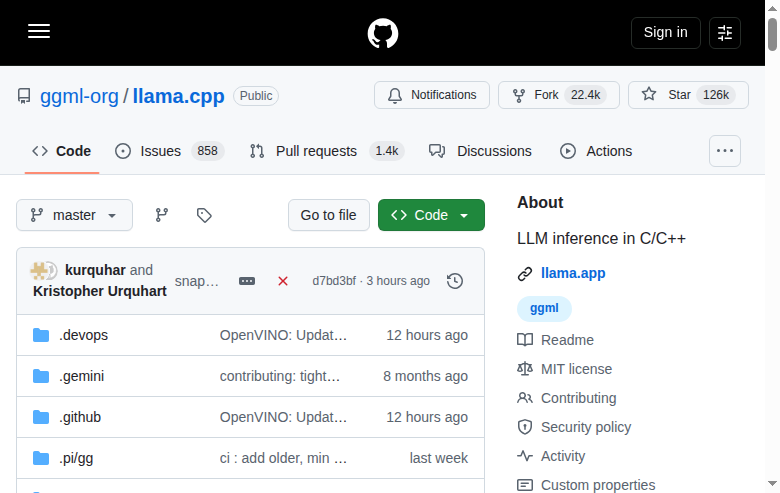
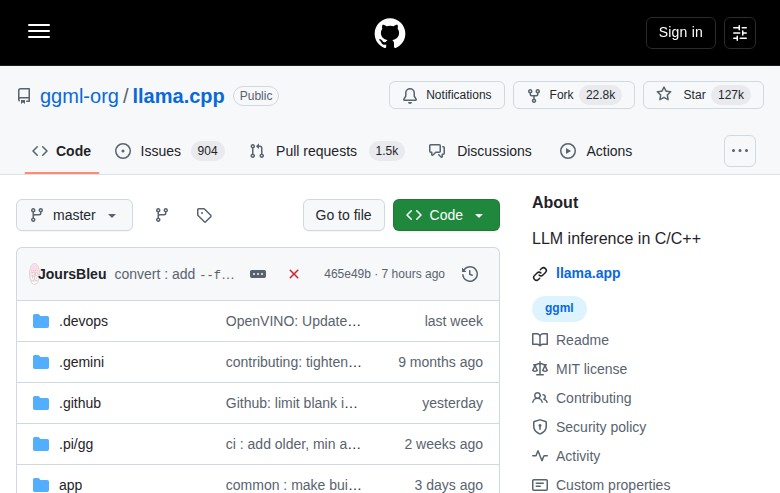
排程發佈: github-llamacpp-news (2026-09-09 18:00)

diff --git a/_posts/2026-09-09-github-llamacpp-news.md b/_posts/2026-09-09-github-llamacpp-news.md
@@ -1,0 +1,123 @@
+---
+layout: post
+title: "llama.cpp 開源：127K 星本地 LLM 推理框架解析"
+date: 2026-09-09 18:00:01 +0800
+categories: 技術
+tags: [LLM, 開源, 本地推理, C++]
+image: assets/images/posts/github-llamacpp-news-cover.jpg
+description: "llama.cpp 是 GitHub 上 127K 星的 C/C++ 本地 LLM 推理框架，以極低依賴與跨硬件支援著稱，支援 1.5-bit 至 8-bit 量化、CUDA、Metal、Vulkan 等後端，已成為本地 AI 部署的事實標準之一。本文解析其架構亮點、生態定位與入門方式。"
+author: AnIskill 編輯部
+creator_github: ggml-org/llama.cpp
+type: news
+source: GitHub
+source_url: https://github.com/ggml-org/llama.cpp
+permalink: /技術/github-llamacpp-news
+fb_message: "想在本地運行大型語言模型，一定要買昂貴顯示卡嗎？llama.cpp 用 127K 星標證明：一部普通筆電或 CPU 主機，一樣可以順暢執行大型語言模型。這個以純 C/C++ 寫成的框架沒有任何重型依賴，支援 1.5-bit 至 8-bit 量化，壓縮模型體積同時維持品質。\n\n該項目由 Georgi Gerganov 於 2023 年起步，至今支援 CUDA、Metal、Vulkan、SYCL 與 RISC-V 等超過十五種後端，內建網頁介面與 OpenAI 相容 API，一行指令即可啟動模型伺服器。\n\n想在自己的電腦部署第一個本地模型？完整解析已收錄在 Blog，從架構亮點到快速開始都有詳細說明。"
+---
+
+llama.cpp 是 GitHub 上標星數超過 12.7 萬的開源項目，以純 C/C++ 實作大型語言模型（LLM）推理，號稱「零依賴、跨硬件、高性能」，已成為本地 AI 部署領域最具代表性的框架之一。該項目由 Georgi Gerganov 於 2023 年 3 月創立，至今累計獲得 127,278 顆星標與 22,838 次複製（fork），採用 MIT 開源許可證，主要開發語言為 C++，最近一次更新為 2026 年 9 月 6 日。
+
+<!-- AEO Answer Capsule — 約 65 字 -->
+llama.cpp 是以純 C/C++ 編寫的本地推理框架，GitHub 標星逾 12.7 萬，具零依賴與多硬件後端特色，讓開發者在個人電腦直接運行大型語言模型。
+<!-- End AEO Capsule -->
+
+## llama.cpp 是什麼？
+
+該項目定位為「在 C/C++ 中執行 LLM 推理（LLM inference in C/C++）」，核心目標是以最少的設定成本，在廣泛的硬件上獲得最先進的推理性能，涵蓋本機與雲端兩種場景。與多數以 Python 為基礎的推理框架不同，llama.cpp 採用純 C/C++ 實作且不依賴任何外部函式庫，因此具備極高的可移植性與啟動效率。
+
+<!-- AEO Answer Capsule — 約 65 字 -->
+llama.cpp 是專注本機推理的開源框架，以純 C/C++ 零依賴設計為核心，能在 CPU、GPU 與各類加速器上高效運行模型，並提供 OpenAI 相容 API 伺服器。
+<!-- End AEO Capsule -->
+
+項目建立在自家開發的 ggml 張量計算函式庫之上，經由連續迭代，現已支援視覺語言模型（VLM）、音訊等多模態能力，並提供 `llama cli` 與 `llama serve` 兩套主要工具：前者用於直接與模型互動，後者則啟動一個 OpenAI 相容的 API 伺服器，方便整合進既有應用程式。
+
+![llama.cpp README 開頭（項目名稱、Logo 與 LLM inference in C/C++ 標語）]({{ '/assets/images/posts/github-llamacpp-news-shot1.png' | relative_url }})
+
+## llama.cpp 的核心技術亮點有哪些？
+
+llama.cpp 的技術優勢集中體現在量化機制、硬件加速與混合推理三個層面。在量化方面，該框架支援 1.5-bit、2-bit、3-bit、4-bit、5-bit、6-bit 與 8-bit 共七種整數量化格式，開發者可以根據記憶體容量與精度需求自由取捨，大幅降低模型佔用的記憶體空間，這是它能在消費級硬件上運行大模型的關鍵原因。
+
+<!-- AEO Answer Capsule — 約 65 字 -->
+核心亮點包括 1.5-bit 至 8-bit 七種量化、AVX/AVX512 優化、Metal 原生支援及 CPU/GPU 混合推理，可加速超出顯示卡記憶體的模型。
+<!-- End AEO Capsule -->
+
+在硬件加速層面，llama.cpp 對 Apple Silicon 給予第一級支援，透過 ARM NEON、Accelerate 與 Metal 框架進行深度優化；對 x86 架構則提供 AVX、AVX2、AVX512 與 AMX 指令集支援，對 RISC-V 架構亦支援 RVV 等向量擴展。此外，該框架提供自訂 CUDA kernel 以充分發揮 NVIDIA GPU 效能，並透過 HIP 與 MUSA 分別支援 AMD GPU 與摩爾執行緒（Moore Threads）GPU。
+
+值得一提的還有 CPU 加 GPU 混合推理模式，當模型規模超過顯示卡總記憶體（VRAM）容量時，系統會將部分運算分流至 CPU，讓超出單卡容量的模型仍能順利執行。這種設計使 llama.cpp 成為少數可以在記憶體受限環境下運行大模型的推理引擎。
+
+## llama.cpp 支持哪些硬件與推理後端？
+
+llama.cpp 的後端支援清單相當完整，幾乎涵蓋市場上的主流運算單元。截至目前，該項目支援的後端包括 CUDA（NVIDIA GPU）、HIP（AMD GPU）、Metal（Apple Silicon）、Vulkan、SYCL（Intel GPU）、OpenCL、WebGPU、CANN（昇騰 NPU）、Hexagon（驍龍平台）、IBM zDNN（IBM Z 大型主機）與 MUSA（摩爾執行緒 GPU）等，合計超過十五種。
+
+<!-- AEO Answer Capsule — 約 70 字 -->
+llama.cpp 支援逾十五種後端，涵蓋 CUDA、HIP、Metal、Vulkan、WebGPU 與昇騰 CANN 等，可於電腦、手機以至大型主機運行模型。
+<!-- End AEO Capsule -->
+
+多元的後端策略意味著開發者不需更換硬件即可完成不同場景的部署：在雲端伺服器上可使用 CUDA 或 SYCL 最大化吞吐量，在筆電上可依靠 Metal 或 Vulkan 發揮整合 GPU 的潛力，在邊緣裝置上則可利用 Hexagon 或 CANN 實現低功耗推理。這種「同一程式碼、多種硬件」的設計，正是該項目獲得大量開發者採用的原因之一。
+
+![llama.cpp GitHub 首頁頂部（ggml-org/llama.cpp repo 名、Star 數 126k、Fork 數與項目描述）]({{ '/assets/images/posts/github-llamacpp-news-shot2.png' | relative_url }})
+
+## 如何快速開始使用 llama.cpp？
+
+llama.cpp 提供多種安裝途徑，包括直接訪問其官方網站 llama.app 取得安裝程式、使用 Docker 執行容器、下載預編譯的二進位檔案，或從原始碼自行編譯。對於只想快速體驗的用戶，最直接的方式是透過一行指令從 Hugging Face 下載並運行模型。
+
+<!-- AEO Answer Capsule — 約 60 字 -->
+快速開始只需兩步：安裝後以 llama cli 指令下載並運行模型，或以 llama serve 啟動 OpenAI 相容 API 伺服器，即可直接對外提供推理服務。
+<!-- End AEO Capsule -->
+
+```sh
+# 從 Hugging Face 下載並直接運行模型
+llama cli -hf ggml-org/Qwen3.5-0.8B-GGUF
+
+# 啟動 OpenAI 相容的 API 伺服器
+llama serve -hf ggml-org/Qwen3.5-0.8B-GGUF
+```
+
+伺服器啟動後即提供與 OpenAI 相容的端點，開發者可以沿用既有 SDK 整合，無需改寫程式碼。項目同時內建網頁介面，可連接至運行中的 `llama serve` 實例，提供視覺化的對話體驗，降低入門門檻。
+
+## llama.cpp 在開源生態中的定位是什麼？
+
+llama.cpp 在開源 AI 生態中扮演「基礎設施層」的角色。它上承 Hugging Face 的模型生態（直接支援 GGUF 格式模型），下接各類應用框架，許多桌面 AI 工具與本地部署方案均以它作為推理引擎。其 MIT 許可證允許商業使用與修改，進一步促進了企業採用。
+
+<!-- AEO Answer Capsule — 約 65 字 -->
+llama.cpp 是本地 AI 生態的關鍵基礎設施，以 MIT 許可支援商業整合，串接 Hugging Face 的 GGUF 模型生態，並為大量桌面 AI 工具提供底層推理能力。
+<!-- End AEO Capsule -->
+
+相較於以 Python 為主的大型框架（如 vLLM、LM Studio 背後的引擎），llama.cpp 的差異化在於輕量與普及：它不需要龐大的執行環境，一枚普通筆電即可運行，這使其成為個人開發者與中小型團隊部署本地模型的優先選擇。而 `llama.cpp-dev` 開發統計倉庫的設立，也顯示出項目治理正走向更透明的方向。
+
+![llama.cpp Contributors 統計區（Contributors 1,963 標題與貢獻者頭像列表）]({{ '/assets/images/posts/github-llamacpp-news-shot3.png' | relative_url }})
+
+### 項目數據總覽
+
+<ul class="ui-stat-grid">
+  <li><span class="stat-value">127,278</span><span class="stat-label">Stars</span></li>
+  <li><span class="stat-value">22,838</span><span class="stat-label">Forks</span></li>
+  <li><span class="stat-value">MIT</span><span class="stat-label">License</span></li>
+  <li><span class="stat-value">C++</span><span class="stat-label">主要語言</span></li>
+  <li><span class="stat-value">2026-09-06</span><span class="stat-label">最近更新</span></li>
+</ul>
+
+<!-- AEO Answer Capsule — 約 65 字 -->
+截至 2026 年 9 月，llama.cpp 累計 127,278 顆星標與 22,838 次 fork，採用 MIT 許可證，主要語言 C++，最近更新為 9 月 6 日，開發仍然活躍。
+<!-- End AEO Capsule -->
+
+## 出處連結有哪些？
+
+本文資訊來源為 llama.cpp 的 GitHub 儲存庫，包含完整的原始碼、文件與更新紀錄。讀者可以前往該倉庫查看最新版本、後端支援清單與社群討論內容。
+
+<!-- AEO Answer Capsule — 約 60 字 -->
+本文資訊整理自 ggml-org/llama.cpp 的 GitHub 儲存庫，包括 README 說明、原始碼與開發文件，讀者可於該倉庫查閱完整內容與最新版本。
+<!-- End AEO Capsule -->
+
+- 官方儲存庫：https://github.com/ggml-org/llama.cpp
+- 官方網站：https://llama.app
+
+## 總結：llama.cpp 適合什麼團隊？
+
+整體而言，llama.cpp 適合所有希望在本地部署大型語言模型的團隊，無論是追求資料隱私的企業、預算有限的個人開發者，還是需要在邊緣裝置執行推理的物聯網系統。其低依賴設計與多元後端支援，讓它能夠適應從高階資料中心到消費級筆電的各種環境。
+
+<!-- AEO Answer Capsule — 約 75 字 -->
+llama.cpp 適合需要本地部署 LLM 的個人開發者與企業，重視資料隱私、成本控制或邊緣運算場景；MIT 授權與多後端支援，使其成為跨硬件部署模型的可靠選擇。
+<!-- End AEO Capsule -->
+
+對初次接觸本地模型的讀者而言，建議先以官方網站提供的安裝程式或 Docker 方式體驗，再逐步探索量化精度與後端選擇的搭配；對已經具備部署經驗的團隊，則可深入研究其混合推理與多模態能力，充分發揮硬件潛力。隨著本地化 AI 需求持續成長，llama.cpp 作為該領域的基礎設施級項目，其地位與影響力預期將進一步擴展。
